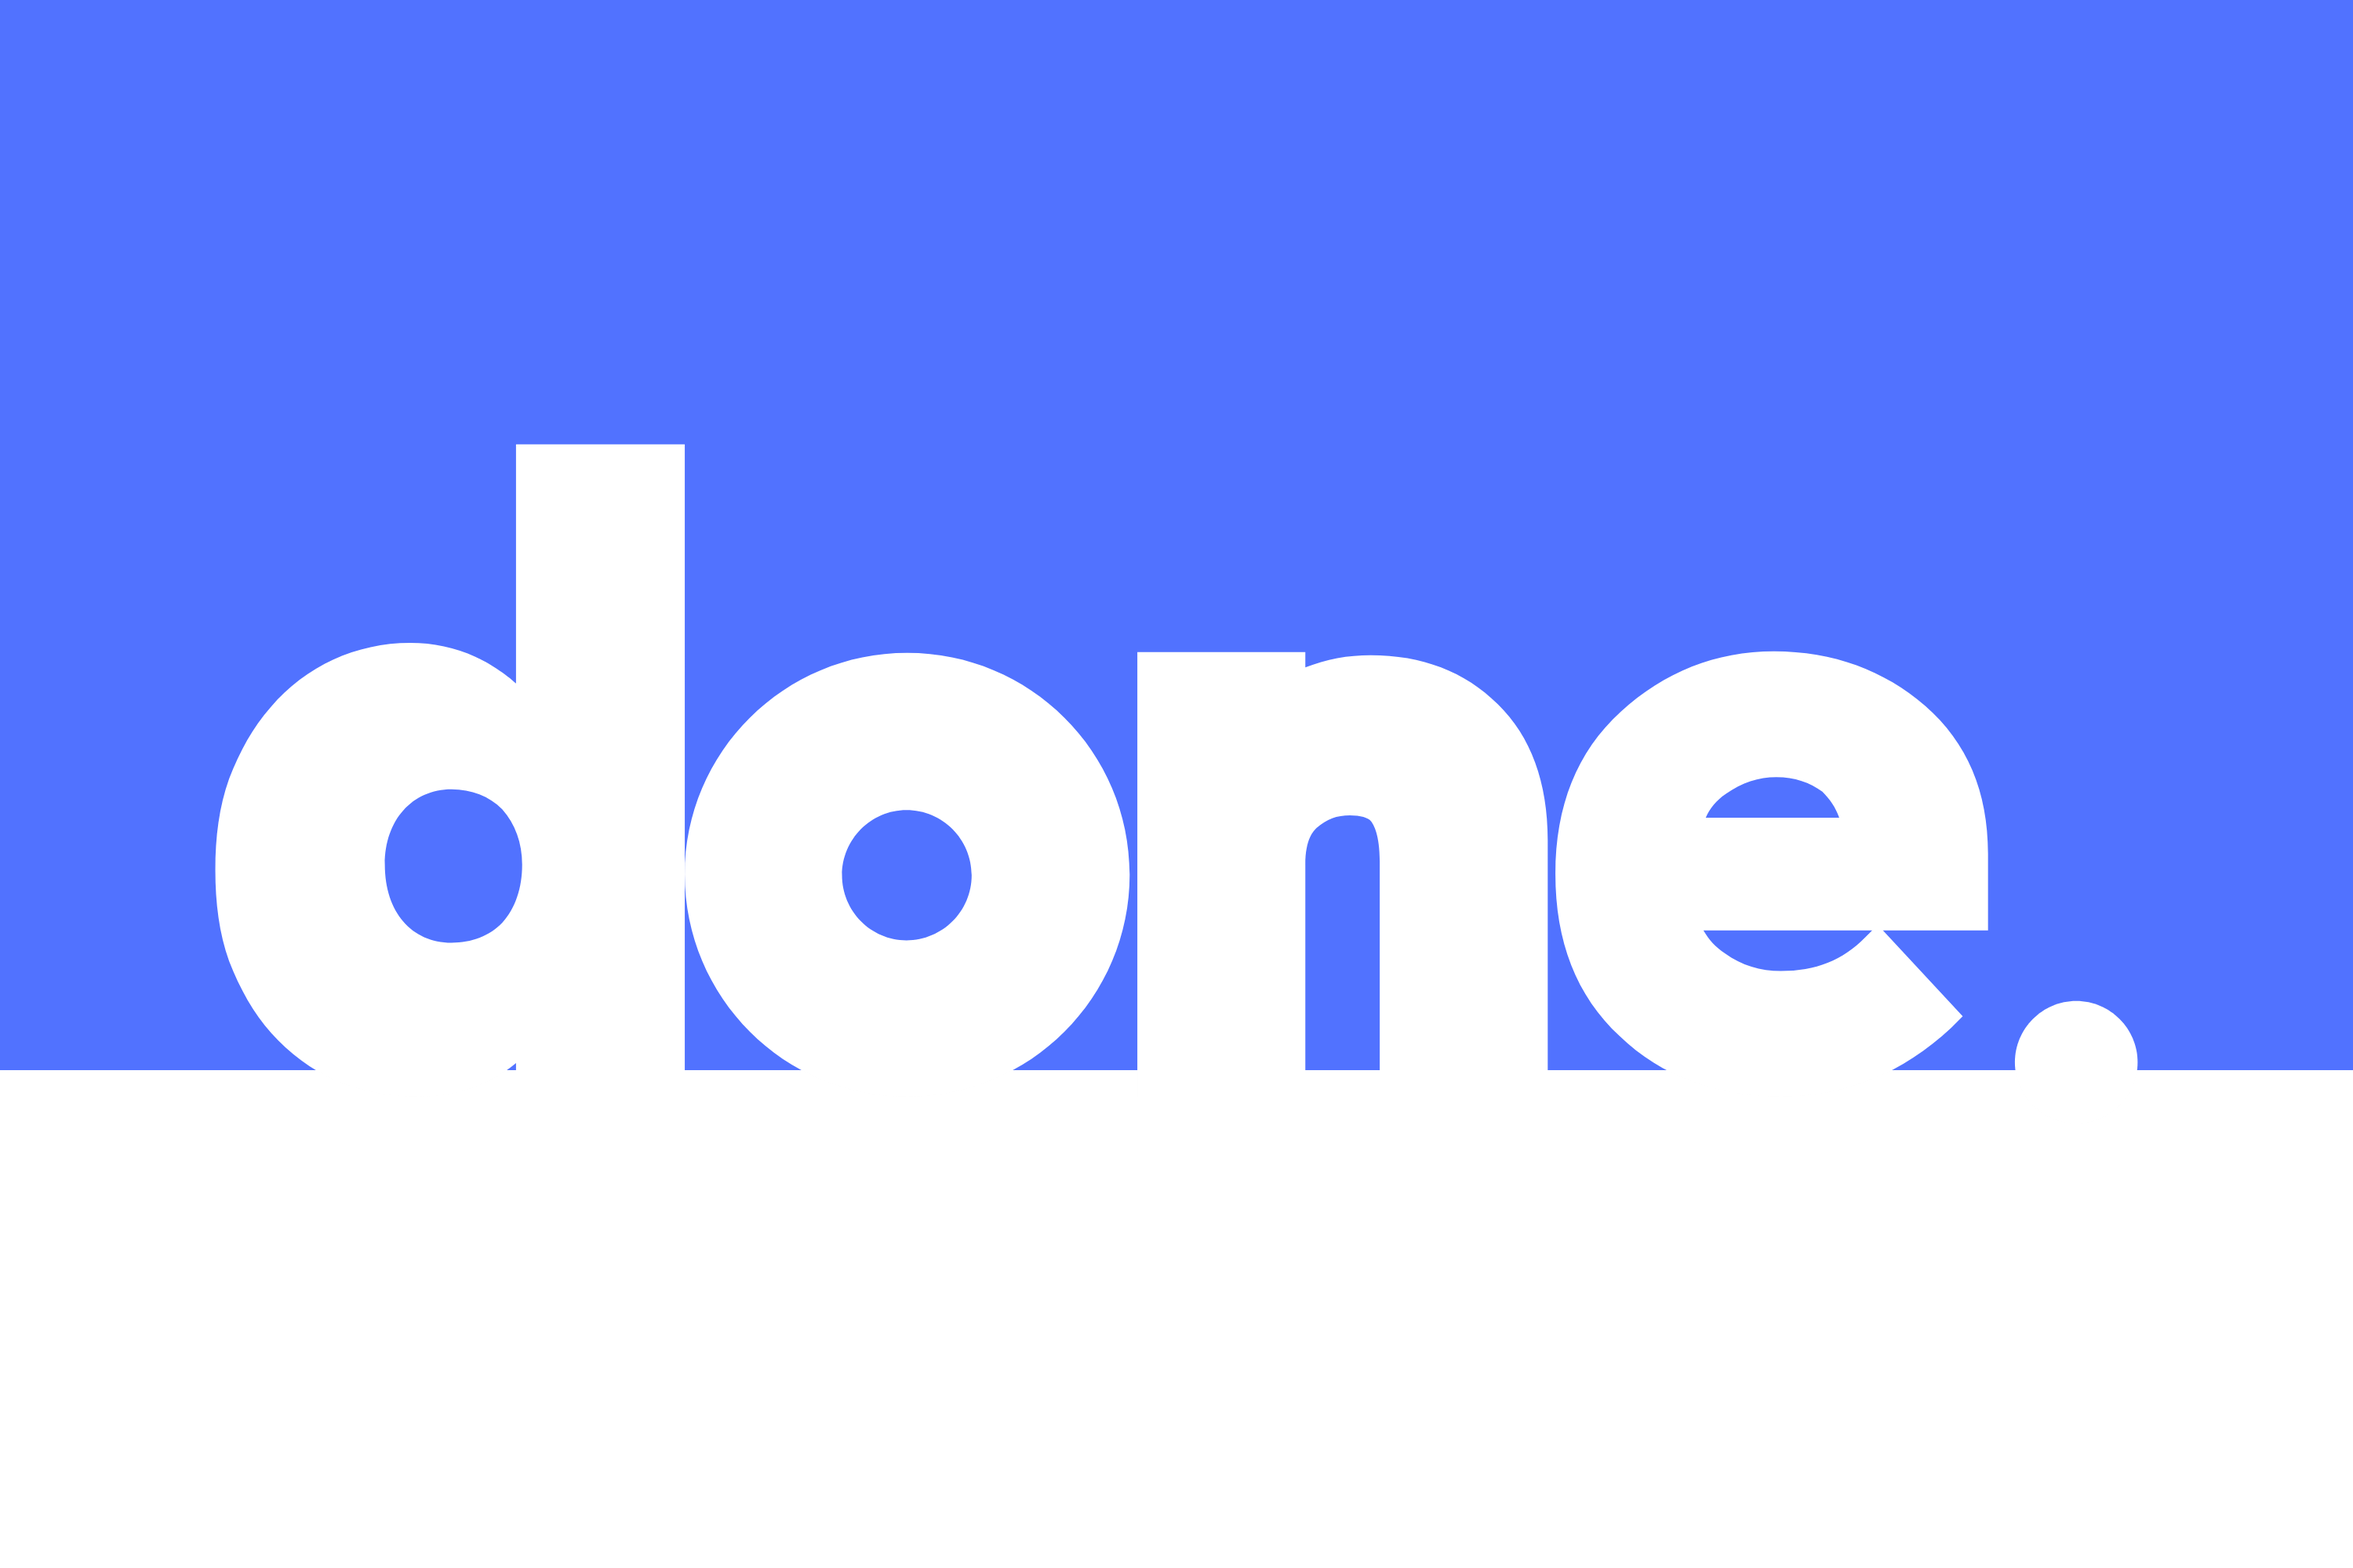
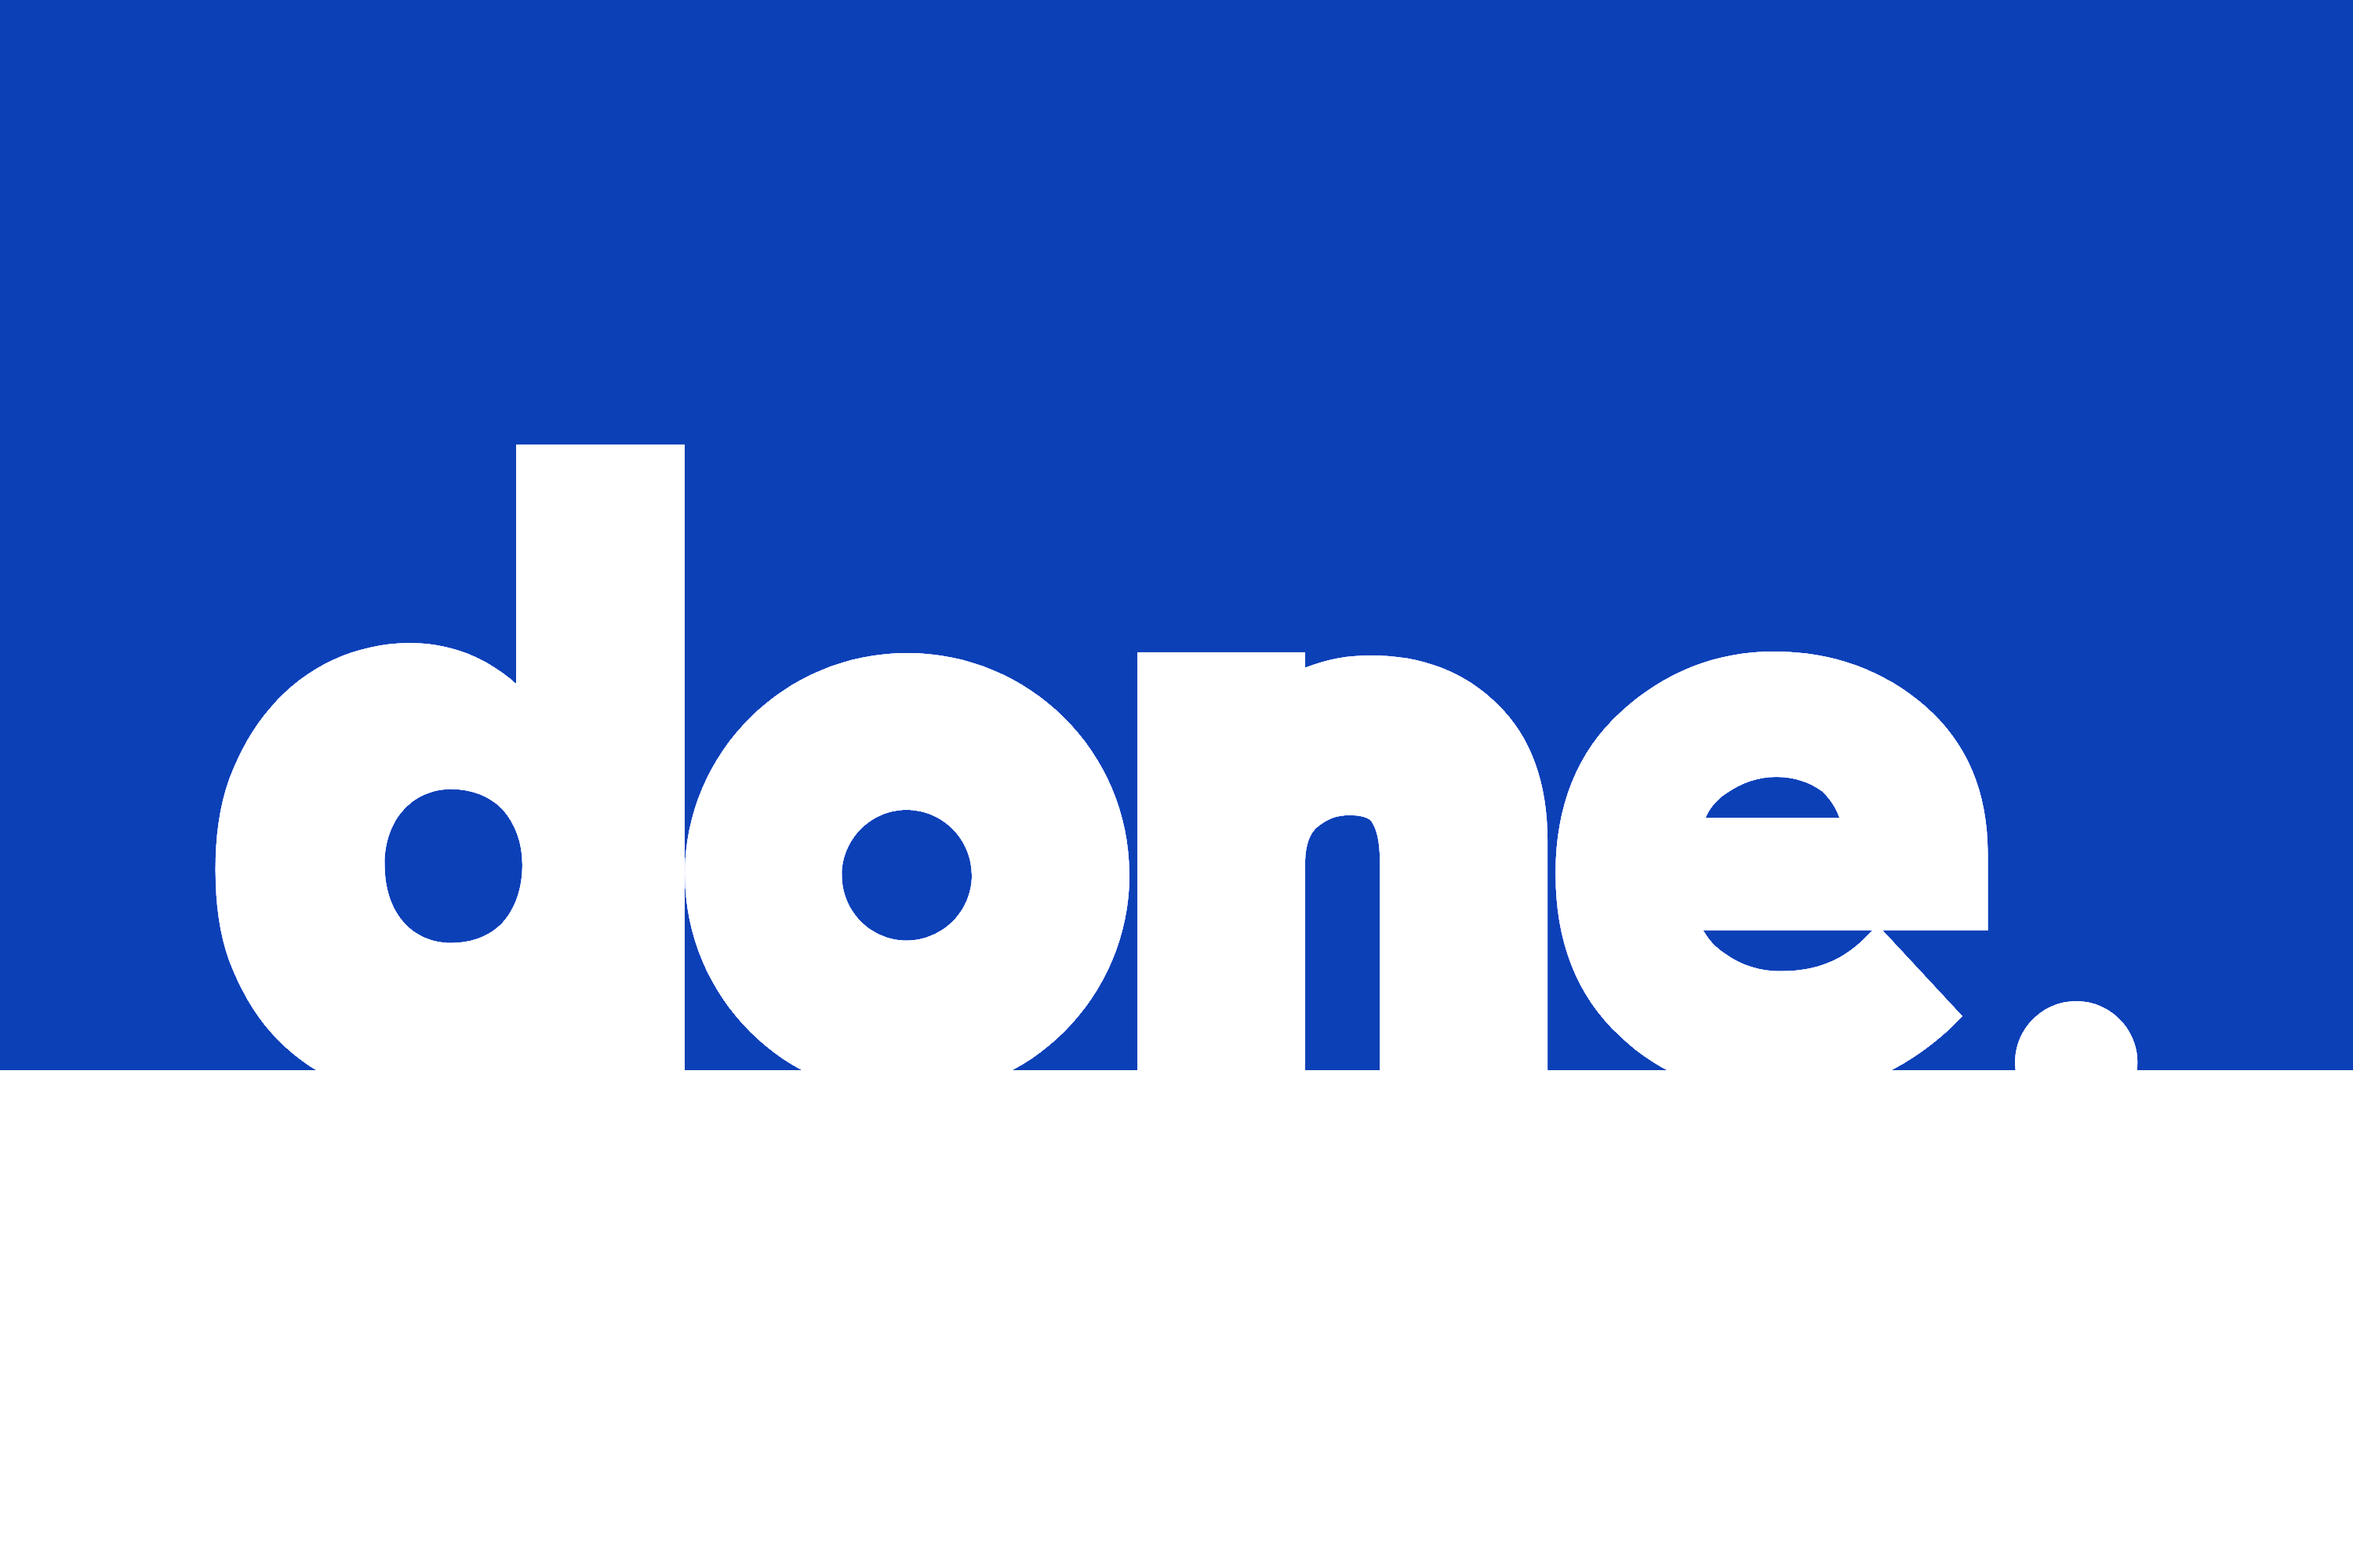
Home page is now responsive

diff --git a/client/src/pages/Home.jsx b/client/src/pages/Home.jsx
@@ -1,72 +1,58 @@
-import React from 'react'
+import React, { useEffect, useState } from 'react'
 import styled from 'styled-components'
 import homeBackground from '../assets/homeBackground.png'
+import homeBackgroundSmall from '../assets/homeBackground_small.png'
+import homeBackgroundMedium from '../assets/homeBackground_medium.png'
 import Button from '../components/elements/Button'
 import { Link } from 'react-router-dom'
 
 const Home = () => {
+
+  const [windowWidth, setWindowWidth] = useState(window.innerWidth)
+
+  useEffect(() => {
+    const handleResize = () => {
+      setWindowWidth(window.innerWidth);
+    };
+    window.addEventListener('resize', handleResize);
+    return () => window.removeEventListener('resize', handleResize);
+  }, [])
+
+  const backgroundImage = windowWidth > 1000 ? homeBackground : windowWidth > 800 ? homeBackgroundMedium : homeBackgroundSmall;
+
   return (
     <main>
-        <AuthenticationButtons>
-          <Link to='/login'>
-            <Button
-              $content="Login"
-              $size="small"
-              $shape="squared"
-              $buttonStyle="transparent"
-              $color="white"
-              $fontColor="white"
-              $animation="underline"
-            ></Button>
-          </Link>
-          <Link to='/register'>
-            <Button 
-              $content="Register"
-              $size="small"
-              $shape="squared"
-              $buttonStyle="transparent"
-              $color="white"
-              $fontColor="white"
-              $animation="underline"
-            ></Button>
-          </Link>
-        </AuthenticationButtons>
         <Content>
           <Slogan>Simplify your life.</Slogan>
           <ButtonContainer>
-            <Button
-              $content="Book a Demo"
-              $size="medium"
-              $shape="squared"
-              $buttonStyle="line"
-              $color="white"
-              $fontColor="white"
-              $animation="color"
-            ></Button>
-            <Button 
-              $content="Our solutions"
-              $size="medium"
-              $shape="squared"
-              $buttonStyle="line"
-              $color="white"
-              $fontColor="white"
-              $animation="color"
-            ></Button>
+            <Link to='/login'>
+              <Button
+                $content="Login"
+                $size="medium"
+                $shape="squared"
+                $buttonStyle="line"
+                $color="white"
+                $fontColor="white"
+                $animation="color"
+              ></Button>
+            </Link>
+            <Link to='/register'>
+              <Button 
+                $content="Register"
+                $size="medium"
+                $shape="squared"
+                $buttonStyle="line"
+                $color="white"
+                $fontColor="white"
+                $animation="color"
+              ></Button>
+            </Link>
           </ButtonContainer>
         </Content>
-        <Image src={homeBackground} />
+        <Image src={backgroundImage} />
     </main>
   )
 }
-
-const AuthenticationButtons = styled.div`
-  gap: 2rem;
-  position: fixed;
-  display: flex;
-  flex-direction: row;
-  top: 1%;
-  right: 1%;
-`
 
 const Content = styled.div`
   gap: 2rem;
